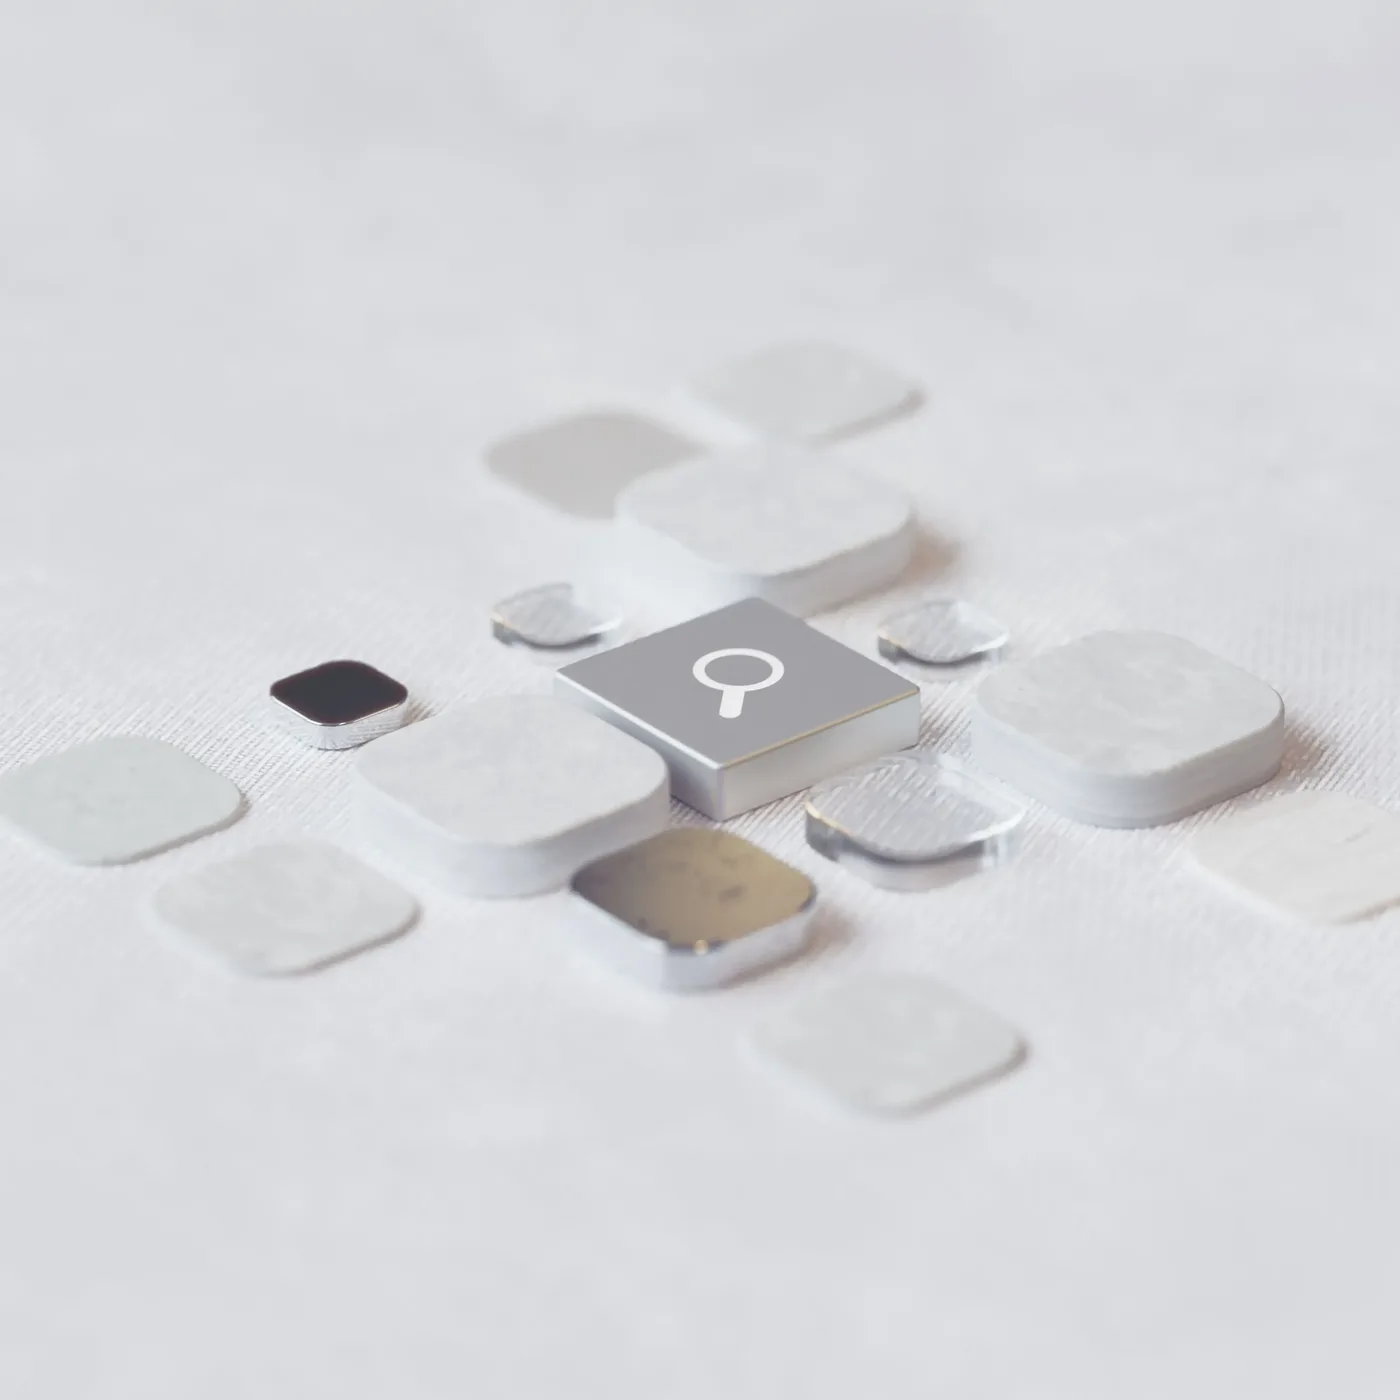
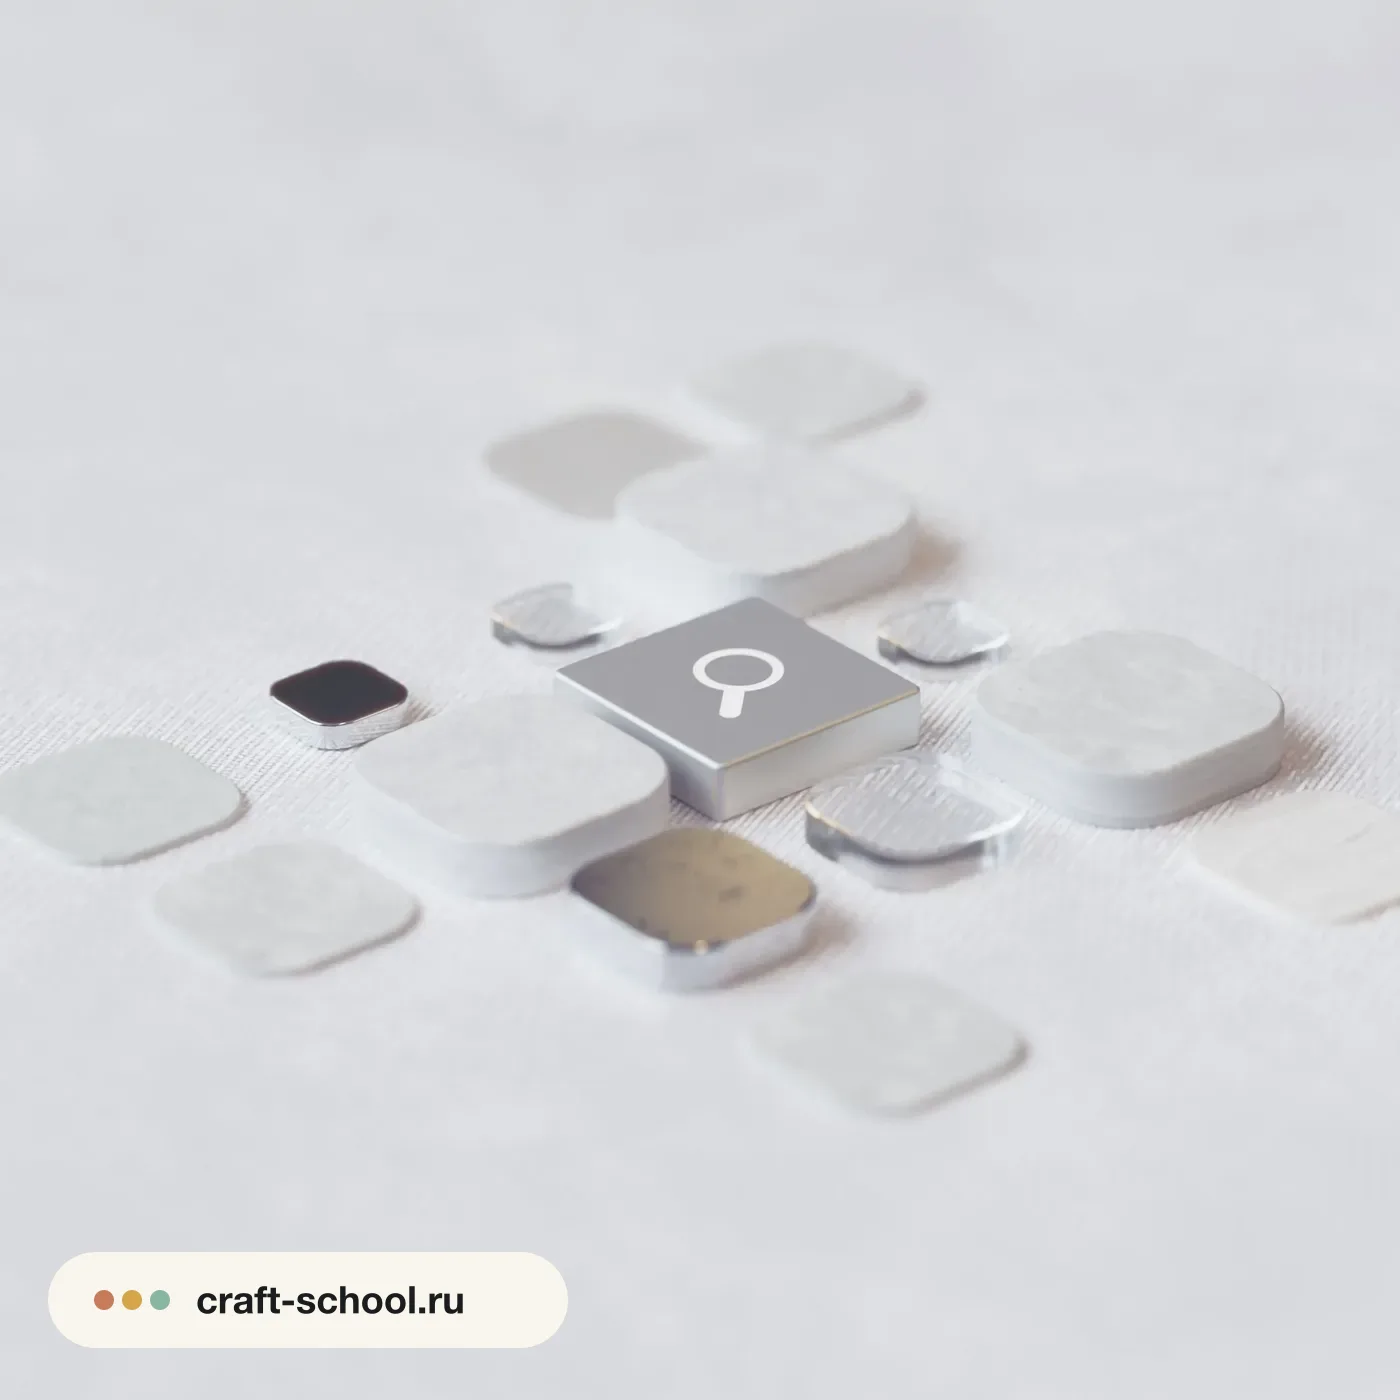
content(блог): статья «Как написать ТЗ для сайта» + подпись craft-school.ru на обложках
- Новая статья kak-napisat-tz-dlya-sajta: цель и главное действие, структура
  блоков, тексты и материалы, стиль и границы работ, интерактивный чеклист
- Заголовок статьи про промпты: «Топ 5 способов…» → «Как правильно написать
  промпт для ИИ-агента» (slug не меняем, ссылки живут)
- На SEO-обложках блога и контент-фото (hero, портрет) — матовый чип
  craft-school.ru: заметно, но спокойно. Соц-карточки OG и промо-сторис не
  трогаем — там бренд уже есть

Changed region(s): [[0.0307, 0.8907, 0.43, 0.9829]]

diff --git a/lib/blog.ts b/lib/blog.ts
@@ -1,5 +1,6 @@
 import {
   Bot,
+  ClipboardList,
   Coins,
   Globe,
   PenLine,
@@ -40,8 +41,81 @@ export type BlogPost = {
 
 export const blogPosts: BlogPost[] = [
   {
+    slug: 'kak-napisat-tz-dlya-sajta',
+    title: 'Как написать ТЗ для сайта',
+    description:
+      'Как составить понятное техническое задание на сайт: цель и главное действие, структура блоков, тексты и материалы, примеры стиля и границы работ. С чеклистом.',
+    date: '2026-08-12',
+    readingTime: '7 минут',
+    icon: ClipboardList,
+    cover: '/images/blog/blog-tz-site.webp',
+    body: [
+      'Сайт получается таким, каким вы его задумали, только если задумка записана. Техническое задание, или ТЗ, это и есть такая запись: короткий документ, где сказано, зачем нужен сайт, что на нём будет и как он должен выглядеть. С готовым ТЗ проще работать и с подрядчиком, и с ИИ-агентом, и с самим собой. Разберём, как составить понятное ТЗ, даже если вы делаете это впервые.',
+
+      { type: 'heading', text: 'Зачем вообще нужно ТЗ' },
+      'Без ТЗ сайт собирают на ходу, и правки идут по кругу: сделали, посмотрели, передумали, переделали. ТЗ убирает эту путаницу. Вы один раз проговариваете, что хотите, и дальше сверяетесь с этим списком. Если делаете сайт сами с ИИ-агентом, ТЗ становится планом работы: по нему видно, с чего начать и что уже готово.',
+
+      { type: 'heading', text: 'Начните с цели и одного главного действия' },
+      'Сначала ответьте на два вопроса: зачем вам сайт и что должен сделать посетитель. Цель это результат для бизнеса: получать заявки, записывать на приём, продавать курс. Главное действие это одна кнопка, ради которой всё затевается. Когда цель ясна, остальные решения принимаются проще: всё, что ведёт к действию, оставляем, лишнее убираем.',
+      {
+        type: 'note',
+        text: 'Пример. Цель: получать заявки на маникюр. Главное действие: кнопка «Записаться». Всё на сайте работает на то, чтобы посетитель до неё дошёл и нажал.',
+      },
+
+      { type: 'heading', text: 'Опишите, для кого сайт' },
+      'Коротко опишите посетителя: кто это, что ему важно, какие сомнения у него есть. От этого зависят и тексты, и порядок блоков. Молодой маме важны безопасность и отзывы, владельцу бизнеса цифры и сроки. Одну и ту же услугу для разных людей показывают по-разному.',
+
+      { type: 'heading', text: 'Составьте структуру: страницы и блоки' },
+      'Теперь наметьте, из чего состоит сайт. Для начала хватит одной страницы, разбитой на блоки сверху вниз. Перечислите их по порядку, это скелет будущего сайта. По нему сразу видно, чего не хватает и что лишнее.',
+      {
+        type: 'list',
+        items: [
+          'Первый экран: кто вы, чем полезны, кнопка главного действия.',
+          'О вас или о компании: коротко и по делу.',
+          'Услуги или товары с ценами.',
+          'Отзывы и примеры работ.',
+          'Ответы на частые вопросы.',
+          'Контакты и способ связаться.',
+        ],
+      },
+
+      { type: 'heading', text: 'Соберите тексты и материалы заранее' },
+      'Сайт без содержания собрать нельзя. Заранее подготовьте то, что на нём появится: описание услуг, цены, фотографии, логотип, отзывы клиентов, контакты. Если текста пока нет, набросайте главные мысли простыми словами, довести до ума поможет тот же ИИ-агент. Но факты, цены и контакты за вас никто не придумает.',
+      {
+        type: 'note',
+        text: 'Совет. Сложите все материалы в одну папку: тексты в заметке, фотографии и логотип отдельными файлами. Когда всё под рукой, сборка идёт быстрее и без пауз.',
+      },
+
+      { type: 'heading', text: 'Покажите стиль и примеры' },
+      'Словами стиль передать трудно, поэтому покажите примеры. Найдите два-три сайта, которые вам нравятся, и отметьте, что именно нравится: цвета, крупные заголовки, спокойный тон. Так и подрядчик, и ИИ-агент поймут, к чему стремиться. Заодно укажите, чего не хотите: например, без кислотных цветов и мигающих баннеров.',
+
+      { type: 'heading', text: 'Обозначьте границы: что в работу не входит' },
+      'Хорошее ТЗ говорит не только что делаем, но и чего пока не делаем. Это защищает от бесконечного расширения. Решите на старте, нужны ли блог, оплата на сайте, личный кабинет, несколько языков. Если для запуска это не нужно, честно запишите «на этом этапе не делаем». Всегда можно добавить позже, когда сайт заработает.',
+
+      { type: 'heading', text: 'Чеклист: что должно быть в ТЗ' },
+      'Пройдитесь по пунктам и отметьте готовые. Прогресс сохранится, даже если закроете страницу и вернётесь позже.',
+      {
+        type: 'checklist',
+        id: 'kak-napisat-tz-dlya-sajta',
+        items: [
+          'Цель сайта и одно главное действие',
+          'Кто посетитель и что ему важно',
+          'Список страниц и блоков по порядку',
+          'Готовые тексты, цены и контакты',
+          'Фотографии и логотип',
+          'Два-три примера сайтов для стиля',
+          'Чего на сайте быть не должно',
+          'Что не входит в работу на этом этапе',
+        ],
+      },
+
+      { type: 'heading', text: 'Коротко' },
+      'ТЗ это не бюрократия, а разговор с самим собой о будущем сайте, записанный на бумаге. Даже короткая версия из восьми пунктов выше экономит время и нервы. А если делаете сайт с ИИ-агентом, готовое ТЗ почти дословно превращается в задачу для него. С этого и начинаем работу в [мастерской](/program).',
+    ],
+  },
+  {
     slug: 'top-5-sposobov-napisat-promt-dlya-ii-agenta',
-    title: 'Топ 5 способов написать промпт для ИИ-агента',
+    title: 'Как правильно написать промпт для ИИ-агента',
     description:
       'Пять приёмов, как ставить задачи ИИ-агенту простыми словами: говорить на языке результата, дробить задачи, показывать примеры и проверять глазами. Без жаргона.',
     date: '2026-08-05',
